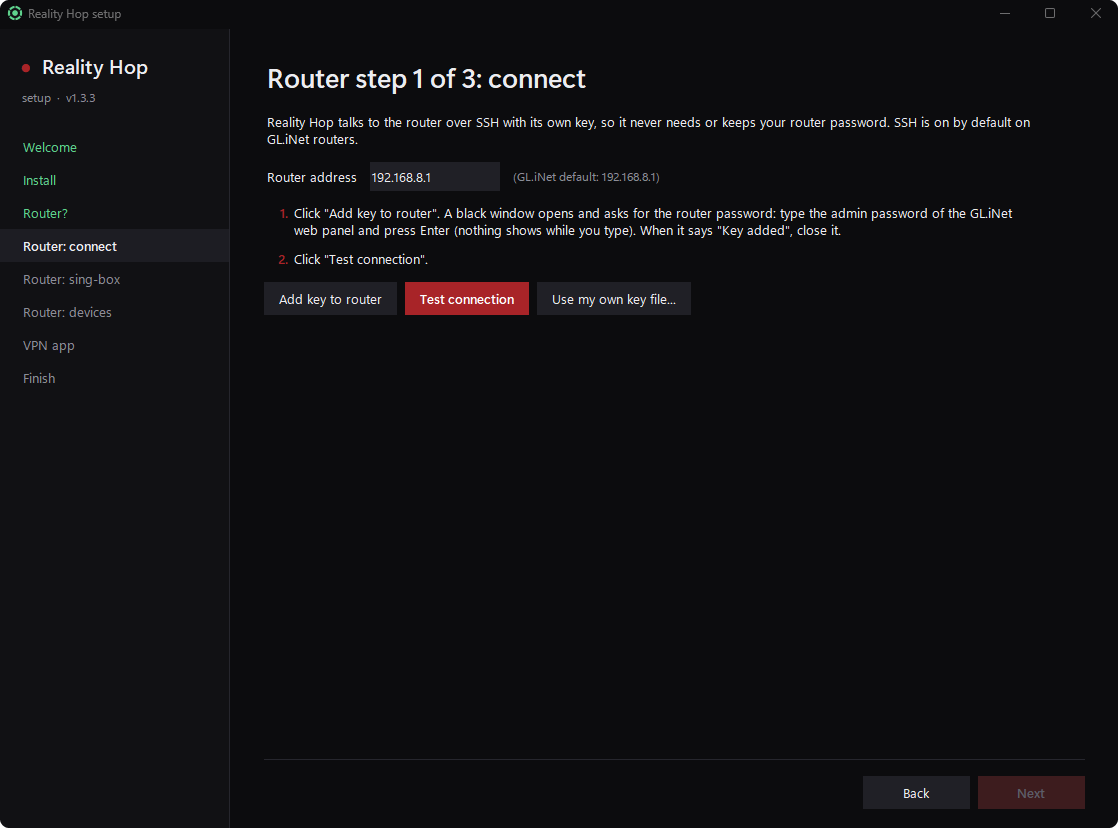
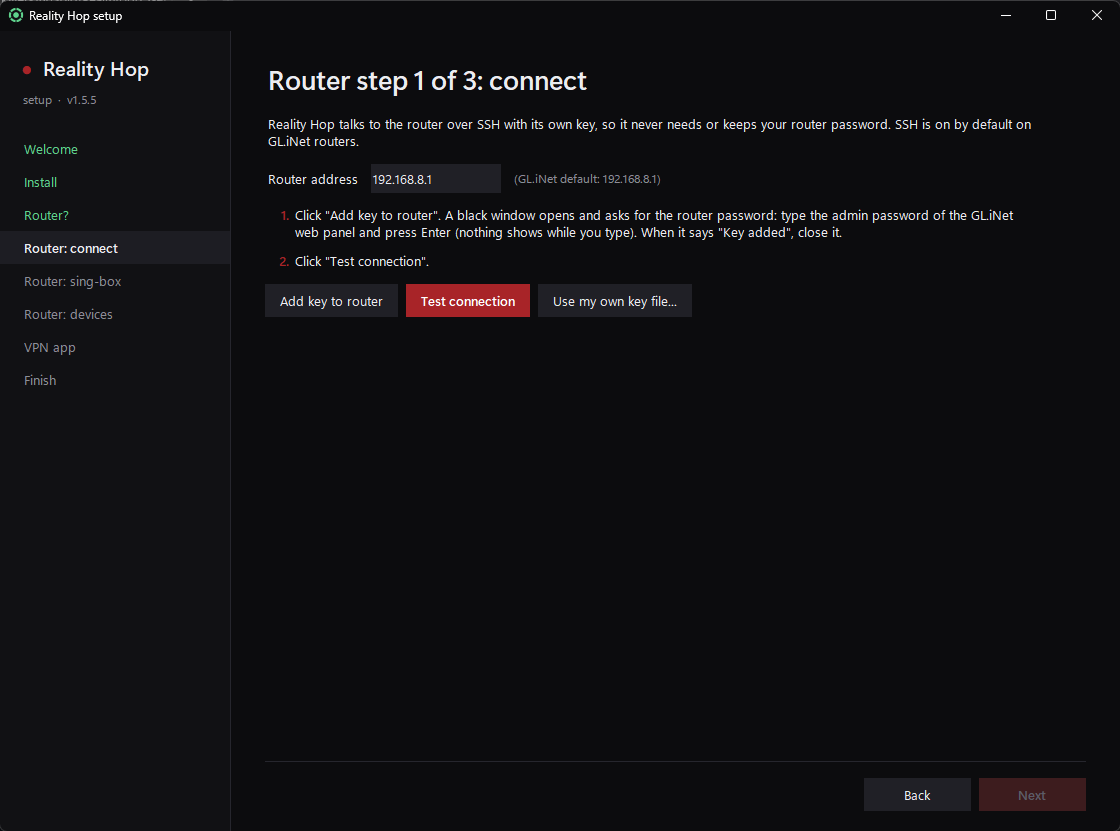
docs: new screenshots for 1.5.5 in all 9 languages

diff --git a/docs/lang/README.uk.md b/docs/lang/README.uk.md
@@ -13,11 +13,21 @@
 
 Він бере безкоштовні публічні вузли з [rtwo2/FastNodes](https://github.com/rtwo2/FastNodes), сам їх перевіряє, використовує найшвидші робочі й сам замінює мертві.
 
-![Майстер налаштування](../images/setup-welcome.png)
+![Майстер налаштування](../images/uk/setup-welcome.png)
 
 ## Як це працює
 
 VPN-застосунок → Reality Hop на вашому ПК (SOCKS5 `127.0.0.1:2080`) → публічний вузол REALITY (виглядає як HTTPS до cloudflare.com) → VPN-сервер → інтернет. Власне шифрування VPN зберігається всередині на всьому шляху.
+
+## Знімки екрана
+
+| ![Головне вікно](../images/uk/main-window.png) | ![Кандидати](../images/uk/candidates.png) |
+|---|---|
+| **Головне вікно:** кожен вузол перевірено через робочий тунель, останні 24 години, тунель роутера. | **Кандидати:** вузли з публічного списку, пропінговані й перевірені на вашому ПК; будь-який можна поставити в слот. |
+| ![Відомості про вузол](../images/uk/node-details.png) | ![Повідомити про проблему](../images/uk/report.png) |
+| **Відомості про вузол:** де розташований вузол, як він проходить перевірки, його пінг за 24 години. | **Повідомити про проблему:** журнали без особистих даних, готові для issue на GitHub. |
+| ![Пристрої роутера](../images/uk/devices.png) | ![Налаштування](../images/uk/settings.png) |
+| **Пристрої роутера:** оберіть, які пристрої йдуть через тунель роутера, і як закріпити їхню адресу. | **Налаштування:** перевірки, функції роутера, оновлення, канал sing-box, ярлики. |
 
 ## Встановлення
 

diff --git a/docs/lang/README.ru.md b/docs/lang/README.ru.md
@@ -13,11 +13,21 @@
 
 Он берёт бесплатные публичные узлы из [rtwo2/FastNodes](https://github.com/rtwo2/FastNodes), сам их проверяет, использует самые быстрые рабочие и сам заменяет мёртвые.
 
-![Мастер настройки](../images/setup-welcome.png)
+![Мастер настройки](../images/ru/setup-welcome.png)
 
 ## Как это работает
 
 VPN-приложение → Reality Hop на вашем ПК (SOCKS5 `127.0.0.1:2080`) → публичный узел REALITY (выглядит как HTTPS к cloudflare.com) → VPN-сервер → интернет. Собственное шифрование VPN сохраняется внутри на всём пути.
+
+## Скриншоты
+
+| ![Главное окно](../images/ru/main-window.png) | ![Кандидаты](../images/ru/candidates.png) |
+|---|---|
+| **Главное окно:** каждый узел проверен через работающий туннель, последние 24 часа, туннель роутера. | **Кандидаты:** узлы из публичного списка, пропингованные и проверенные на вашем ПК; любой можно поставить в слот. |
+| ![Сведения об узле](../images/ru/node-details.png) | ![Сообщить о проблеме](../images/ru/report.png) |
+| **Сведения об узле:** где находится узел, как он проходит проверки, его пинг за 24 часа. | **Сообщить о проблеме:** журналы без личных данных, готовые для issue на GitHub. |
+| ![Устройства роутера](../images/ru/devices.png) | ![Настройки](../images/ru/settings.png) |
+| **Устройства роутера:** выберите, какие устройства идут через туннель роутера, и как закрепить их адрес. | **Настройки:** проверки, функции роутера, обновления, канал sing-box, ярлыки. |
 
 ## Установка
 

diff --git a/docs/lang/README.fa.md b/docs/lang/README.fa.md
@@ -15,11 +15,21 @@
 
 گرههای عمومی رایگان را از [rtwo2/FastNodes](https://github.com/rtwo2/FastNodes) میگیرد، خودش آنها را آزمایش میکند، از سریعترین گرههای سالم استفاده میکند و گرههای خراب را خودش جایگزین میکند.
 
-![دستیار راهاندازی](../images/setup-welcome.png)
+![دستیار راهاندازی](../images/fa/setup-welcome.png)
 
 ## چگونه کار میکند
 
 برنامه VPN ← Reality Hop روی رایانه شما (SOCKS5 `127.0.0.1:2080`) ← گره عمومی REALITY (شبیه HTTPS به cloudflare.com) ← سرور VPN ← اینترنت. رمزگذاری خود VPN در تمام مسیر درون آن باقی میماند.
+
+## تصاویر
+
+| ![پنجره اصلی](../images/fa/main-window.png) | ![نامزدها](../images/fa/candidates.png) |
+|---|---|
+| **پنجره اصلی:** هر گره از طریق تونل فعال آزمایش میشود، ۲۴ ساعت گذشته، تونل روتر. | **نامزدها:** گرههای فهرست عمومی که روی رایانه شما پینگ و آزمایش شدهاند؛ هر کدام را در یک جایگاه بگذارید. |
+| ![جزئیات گره](../images/fa/node-details.png) | ![گزارش مشکل](../images/fa/report.png) |
+| **جزئیات گره:** محل گره، نتیجه آزمایشها و پینگ آن در ۲۴ ساعت. | **گزارش مشکل:** گزارشها با حذف همه اطلاعات شخصی، آماده برای یک issue در GitHub. |
+| ![دستگاههای روتر](../images/fa/devices.png) | ![تنظیمات](../images/fa/settings.png) |
+| **دستگاههای روتر:** انتخاب کنید کدام دستگاهها از تونل روتر استفاده کنند و چطور نشانی آنها ثابت بماند. | **تنظیمات:** بررسیها، امکانات روتر، بهروزرسانیها، کانال sing-box، میانبرها. |
 
 ## نصب
 

diff --git a/docs/lang/README.ar.md b/docs/lang/README.ar.md
@@ -15,11 +15,21 @@
 
 يأخذ عقدًا عامة مجانية من [rtwo2/FastNodes](https://github.com/rtwo2/FastNodes)، ويختبرها بنفسه، ويستخدم أسرع العقد العاملة، ويستبدل المعطلة تلقائيًا.
 
-![معالج الإعداد](../images/setup-welcome.png)
+![معالج الإعداد](../images/ar/setup-welcome.png)
 
 ## كيف يعمل
 
 تطبيق VPN ← Reality Hop على حاسوبك (SOCKS5 `127.0.0.1:2080`) ← عقدة REALITY عامة (تبدو كـ HTTPS إلى cloudflare.com) ← خادم VPN ← الإنترنت. يبقى تشفير VPN نفسه داخلها طوال الطريق.
+
+## لقطات الشاشة
+
+| ![النافذة الرئيسية](../images/ar/main-window.png) | ![المرشحون](../images/ar/candidates.png) |
+|---|---|
+| **النافذة الرئيسية:** كل عقدة مختبرة عبر النفق العامل، آخر 24 ساعة، نفق الراوتر. | **المرشحون:** عقد من القائمة العامة، مع ping واختبار على حاسوبك؛ ضع أيًّا منها في خانة. |
+| ![تفاصيل العقدة](../images/ar/node-details.png) | ![الإبلاغ عن مشكلة](../images/ar/report.png) |
+| **تفاصيل العقدة:** مكان العقدة، ونتيجة اختباراتها، وزمن ping خلال 24 ساعة. | **الإبلاغ عن مشكلة:** السجلات بعد حذف كل ما هو شخصي، جاهزة لـ issue على GitHub. |
+| ![أجهزة الراوتر](../images/ar/devices.png) | ![الإعدادات](../images/ar/settings.png) |
+| **أجهزة الراوتر:** اختر الأجهزة التي تستخدم نفق الراوتر، وكيف تثبّت عناوينها. | **الإعدادات:** الفحوص، ميزات الراوتر، التحديثات، قناة sing-box، الاختصارات. |
 
 ## التثبيت
 

diff --git a/docs/lang/README.vi.md b/docs/lang/README.vi.md
@@ -13,11 +13,21 @@
 
 Nó lấy các nút công khai miễn phí từ [rtwo2/FastNodes](https://github.com/rtwo2/FastNodes), tự kiểm tra, dùng các nút nhanh nhất đang hoạt động và tự thay các nút chết.
 
-![Trình hướng dẫn cài đặt](../images/setup-welcome.png)
+![Trình hướng dẫn cài đặt](../images/vi/setup-welcome.png)
 
 ## Cách hoạt động
 
 Ứng dụng VPN → Reality Hop trên PC của bạn (SOCKS5 `127.0.0.1:2080`) → nút REALITY công khai (trông như HTTPS tới cloudflare.com) → máy chủ VPN → internet. Lớp mã hóa riêng của VPN vẫn nằm bên trong suốt đường đi.
+
+## Ảnh chụp màn hình
+
+| ![Cửa sổ chính](../images/vi/main-window.png) | ![Ứng viên](../images/vi/candidates.png) |
+|---|---|
+| **Cửa sổ chính:** mọi nút được kiểm tra qua đường hầm đang chạy, 24 giờ qua, đường hầm router. | **Ứng viên:** các nút từ danh sách công khai, được ping và kiểm tra trên PC của bạn; đặt bất kỳ nút nào vào một ô. |
+| ![Chi tiết nút](../images/vi/node-details.png) | ![Báo cáo sự cố](../images/vi/report.png) |
+| **Chi tiết nút:** nút ở đâu, kết quả kiểm tra, ping của nó trong 24 giờ. | **Báo cáo sự cố:** nhật ký đã ẩn mọi thông tin cá nhân, sẵn sàng cho một issue trên GitHub. |
+| ![Thiết bị của router](../images/vi/devices.png) | ![Cài đặt](../images/vi/settings.png) |
+| **Thiết bị của router:** chọn thiết bị nào dùng đường hầm router và cách giữ cố định địa chỉ của chúng. | **Cài đặt:** kiểm tra, tính năng router, cập nhật, kênh sing-box, lối tắt. |
 
 ## Cài đặt
 

diff --git a/docs/lang/README.es.md b/docs/lang/README.es.md
@@ -13,11 +13,21 @@
 
 Toma nodos públicos gratuitos de [rtwo2/FastNodes](https://github.com/rtwo2/FastNodes), los prueba él mismo, usa los más rápidos que funcionan y sustituye los caídos por sí solo.
 
-![Asistente de configuración](../images/setup-welcome.png)
+![Asistente de configuración](../images/es/setup-welcome.png)
 
 ## Cómo funciona
 
 App VPN → Reality Hop en tu PC (SOCKS5 `127.0.0.1:2080`) → nodo REALITY público (parece HTTPS a cloudflare.com) → servidor VPN → internet. El cifrado de tu VPN sigue intacto dentro durante todo el camino.
+
+## Capturas de pantalla
+
+| ![Ventana principal](../images/es/main-window.png) | ![Candidatos](../images/es/candidates.png) |
+|---|---|
+| **Ventana principal:** cada nodo probado a través del túnel activo, las últimas 24 horas, el túnel del router. | **Candidatos:** nodos de la lista pública, con ping y probados en tu PC; pon cualquiera en una ranura. |
+| ![Detalles del nodo](../images/es/node-details.png) | ![Informar de un problema](../images/es/report.png) |
+| **Detalles del nodo:** dónde está un nodo, cómo responde a las pruebas, su ping en 24 horas. | **Informar de un problema:** los registros sin nada personal, listos para un issue de GitHub. |
+| ![Dispositivos del router](../images/es/devices.png) | ![Ajustes](../images/es/settings.png) |
+| **Dispositivos del router:** elige qué dispositivos usan el túnel del router y cómo mantener fija su dirección. | **Ajustes:** comprobaciones, funciones del router, actualizaciones, el canal de sing-box, accesos directos. |
 
 ## Instalar
 

diff --git a/docs/lang/README.tr.md b/docs/lang/README.tr.md
@@ -13,11 +13,21 @@
 
 [rtwo2/FastNodes](https://github.com/rtwo2/FastNodes) listesinden ücretsiz genel düğümler alır, bunları kendisi test eder, çalışan en hızlıları kullanır ve çökenleri kendiliğinden değiştirir.
 
-![Kurulum sihirbazı](../images/setup-welcome.png)
+![Kurulum sihirbazı](../images/tr/setup-welcome.png)
 
 ## Nasıl çalışır
 
 VPN uygulaması → PC'nizdeki Reality Hop (SOCKS5 `127.0.0.1:2080`) → genel REALITY düğümü (cloudflare.com'a HTTPS gibi görünür) → VPN sunucusu → internet. VPN'inizin kendi şifrelemesi tüm yol boyunca içeride kalır.
+
+## Ekran görüntüleri
+
+| ![Ana pencere](../images/tr/main-window.png) | ![Adaylar](../images/tr/candidates.png) |
+|---|---|
+| **Ana pencere:** her düğüm canlı tünel üzerinden test edilir, son 24 saat, router tüneli. | **Adaylar:** genel listeden düğümler, PC'nizde ping atılıp test edilir; herhangi birini bir yuvaya koyun. |
+| ![Düğüm ayrıntıları](../images/tr/node-details.png) | ![Sorun bildir](../images/tr/report.png) |
+| **Düğüm ayrıntıları:** düğümün nerede olduğu, testlerde nasıl olduğu, 24 saatlik ping'i. | **Sorun bildir:** kişisel her şeyi ayıklanmış günlükler, bir GitHub issue'suna hazır. |
+| ![Router cihazları](../images/tr/devices.png) | ![Ayarlar](../images/tr/settings.png) |
+| **Router cihazları:** hangi cihazların router tünelini kullanacağını ve adreslerinin nasıl sabit kalacağını seçin. | **Ayarlar:** kontroller, router özellikleri, güncellemeler, sing-box kanalı, kısayollar. |
 
 ## Kurulum
 

diff --git a/docs/lang/README.zh.md b/docs/lang/README.zh.md
@@ -13,11 +13,21 @@
 
 它从 [rtwo2/FastNodes](https://github.com/rtwo2/FastNodes) 获取免费公共节点，自己测试，使用最快的可用节点，并自动替换失效节点。
 
-![设置向导](../images/setup-welcome.png)
+![设置向导](../images/zh/setup-welcome.png)
 
 ## 工作原理
 
 VPN 应用 → 你电脑上的 Reality Hop（SOCKS5 `127.0.0.1:2080`）→ 公共 REALITY 节点（看起来像访问 cloudflare.com 的 HTTPS）→ VPN 服务器 → 互联网。你的 VPN 自身的加密全程保留在里面。
+
+## 截图
+
+| ![主窗口](../images/zh/main-window.png) | ![候选节点](../images/zh/candidates.png) |
+|---|---|
+| **主窗口:** 每个节点都通过运行中的隧道测试，显示最近 24 小时和路由器隧道。 | **候选节点:** 来自公共列表的节点，在你的电脑上测 ping 和测试；可以把任意一个放进槽位。 |
+| ![节点详情](../images/zh/node-details.png) | ![报告问题](../images/zh/report.png) |
+| **节点详情:** 节点所在位置、测试结果、24 小时内的 ping。 | **报告问题:** 去除了所有个人信息的日志，可直接附到 GitHub issue。 |
+| ![路由器设备](../images/zh/devices.png) | ![设置](../images/zh/settings.png) |
+| **路由器设备:** 选择哪些设备走路由器隧道，以及如何固定它们的地址。 | **设置:** 检查、路由器功能、更新、sing-box 通道、快捷方式。 |
 
 ## 安装
 
